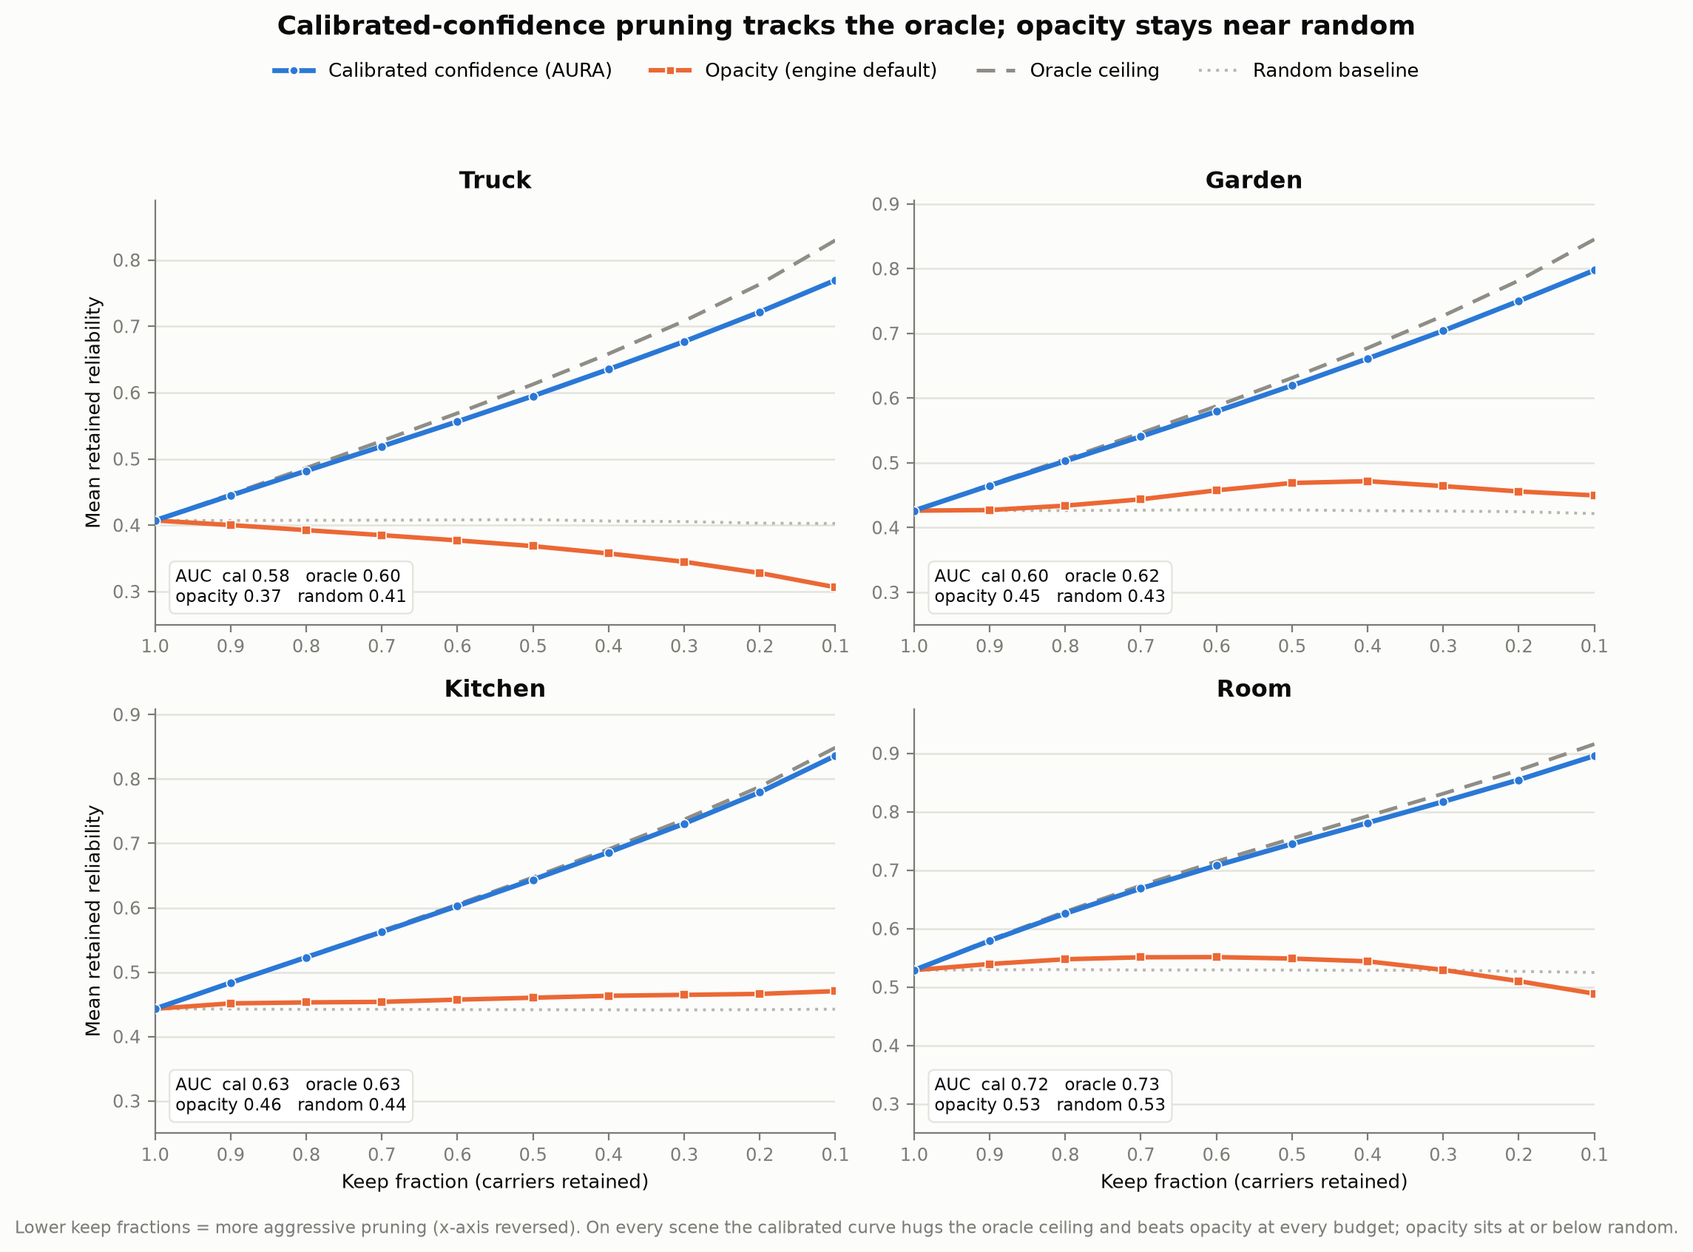
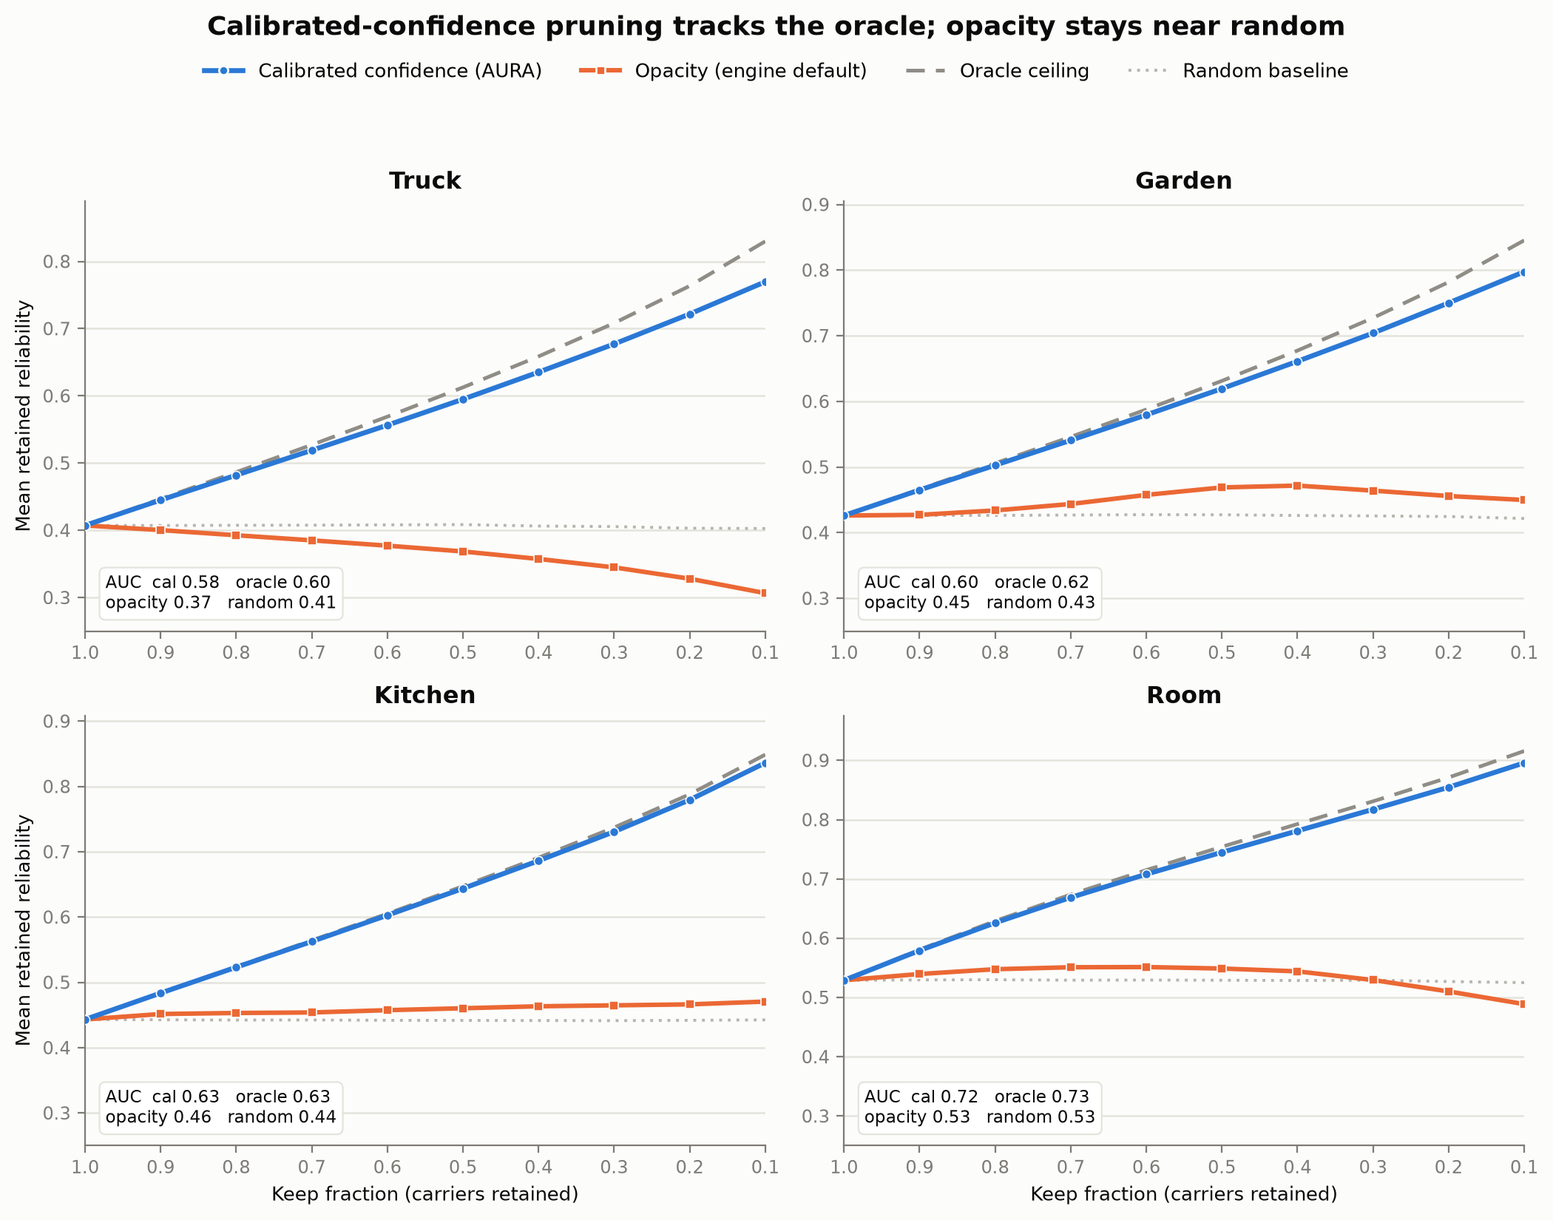
visuals: strip baked-in caption footers (captions now live in README text); enlarge how_it_works fonts, reliability panels, and stack render-loss figure vertically

diff --git a/experiments/make_hardening_figures.py b/experiments/make_hardening_figures.py
@@ -120,7 +120,7 @@ def fig_reliability_diagram():
     splits = {k: load_split(k) for k, _ in SCENES}
     calibs = {k: json.loads((OUT / f"calib_{k}.json").read_text()) for k, _ in SCENES}
 
-    fig, axes = plt.subplots(2, 2, figsize=(10.6, 9.2), dpi=200, sharex=True, sharey=True)
+    fig, axes = plt.subplots(2, 2, figsize=(9.2, 8.9), dpi=190, sharex=True, sharey=True)
 
     for ax, (skey, slabel) in zip(axes.ravel(), SCENES):
         s = splits[skey]
@@ -134,15 +134,16 @@ def fig_reliability_diagram():
         raw_ece = calibs[skey]["calibration"]["ece_raw_heuristic"]
         cal_ece = calibs[skey]["calibration"]["ece_calibrated"]
         ax.set_title(f"{slabel}   —   ECE {raw_ece:.2f} → {cal_ece:.4f}",
-                     fontsize=11.5, color=INK, pad=8, fontweight="bold")
+                     fontsize=14, color=INK, pad=9, fontweight="bold")
         ax.set_xlim(0, 1.02)
         ax.set_ylim(0, 1.02)
         ax.set_aspect("equal")
+        ax.tick_params(labelsize=11)
         _style(ax)
     for ax in axes[1, :]:
-        ax.set_xlabel("Reported confidence", fontsize=10.5, color=INK)
+        ax.set_xlabel("Reported confidence", fontsize=12.5, color=INK)
     for ax in axes[:, 0]:
-        ax.set_ylabel("Empirical held-out reliability", fontsize=10.5, color=INK)
+        ax.set_ylabel("Empirical held-out reliability", fontsize=12.5, color=INK)
 
     handles = [
         Line2D([0], [0], color=RAW, lw=2.2, marker="s", ms=5.0, mec=SURFACE,
@@ -152,18 +153,13 @@ def fig_reliability_diagram():
         Line2D([0], [0], color=MUTED, lw=1.1, ls=(0, (5, 4)),
                label="perfect calibration (y = x)"),
     ]
-    fig.legend(handles=handles, loc="upper center", bbox_to_anchor=(0.5, 0.955),
-               frameon=False, fontsize=10, ncol=3, columnspacing=1.8)
+    fig.legend(handles=handles, loc="upper center", bbox_to_anchor=(0.5, 0.965),
+               frameon=False, fontsize=11.5, ncol=3, columnspacing=1.6)
     fig.suptitle("Isotonic calibration turns the confidence into a trustworthy reliability",
-                 fontsize=13.5, color=INK, fontweight="bold", y=0.985)
-    fig.text(0.5, 0.008,
-             "Reliability diagrams on the held-out eval split (10 equal-count bins per curve). In every scene the shipped "
-             "view-count heuristic reports ~1.0 regardless of true reliability; isotonic (PAVA) calibration places the "
-             "reported value on the diagonal, cutting ECE ~300–900×. Sources: outputs/reliability_<scene>.npz, calib_<scene>.json.",
-             ha="center", fontsize=8.4, color=MUTED)
-    fig.tight_layout(rect=(0, 0.025, 1, 0.925))
+                 fontsize=16, color=INK, fontweight="bold", y=0.995)
+    fig.tight_layout(rect=(0, 0, 1, 0.92))
     p = ASSETS / "reliability_diagram.png"
-    fig.savefig(p, bbox_inches="tight", facecolor=SURFACE, dpi=200)
+    fig.savefig(p, bbox_inches="tight", facecolor=SURFACE, dpi=190)
     plt.close(fig)
     print("wrote", p)
 
@@ -214,11 +210,7 @@ def fig_selection_curves():
                bbox_to_anchor=(0.5, 0.975))
     fig.suptitle("Calibrated-confidence pruning tracks the oracle; opacity stays near random",
                  fontsize=13, color=INK, fontweight="bold", y=1.0)
-    fig.text(0.5, -0.005,
-             "Lower keep fractions = more aggressive pruning (x-axis reversed). On every scene the calibrated curve "
-             "hugs the oracle ceiling and beats opacity at every budget; opacity sits at or below random.",
-             ha="center", fontsize=8.2, color=MUTED)
-    fig.tight_layout(rect=(0, 0.01, 1, 0.93))
+    fig.tight_layout(rect=(0, 0, 1, 0.93))
     p = ASSETS / "selection_curves.png"
     fig.savefig(p, bbox_inches="tight", facecolor=SURFACE, dpi=200)
     plt.close(fig)
@@ -282,11 +274,6 @@ def fig_transfer_heatmap():
 
     fig.suptitle("A single calibrator transfers across scenes (boxed diagonal = in-scene)",
                  fontsize=13, color=INK, fontweight="bold", y=1.02)
-    fig.text(0.5, -0.02,
-             "Off-diagonal = calibrator fit on the source scene, applied to the target. Every transferred ECE stays "
-             "1-2 orders of magnitude below the uncalibrated raw heuristic (~0.54); selection/pruning AUC transfers "
-             "within +/-0.0004 (rank-invariant). Truck is the object-centric outlier.",
-             ha="center", fontsize=8.2, color=MUTED)
     p = ASSETS / "transfer_ece_heatmap.png"
     fig.savefig(p, bbox_inches="tight", facecolor=SURFACE, dpi=200)
     plt.close(fig)
@@ -313,7 +300,7 @@ def fig_proxy_vs_renderloss():
     ora_r = [auc(k, "fullres_renderloss", "oracle_ceiling") for k in keys]
     opa_r = [auc(k, "fullres_renderloss", "opacity") for k in keys]
 
-    fig, (axL, axR) = plt.subplots(1, 2, figsize=(11.4, 5.2), dpi=200)
+    fig, (axL, axR) = plt.subplots(2, 1, figsize=(9.2, 10.4), dpi=190)
     x = np.arange(4)
 
     # Panel 1 — export feature correlation with each label (grouped pair).
@@ -323,18 +310,19 @@ def fig_proxy_vs_renderloss():
     axL.bar(x + bw / 2, corr_rloss, bw, color=RENDER, edgecolor=SURFACE, lw=1.4,
             label="render-loss label (stricter)", zorder=3)
     for xi, v in zip(x - bw / 2, corr_color):
-        axL.text(xi, v + 0.014, f"{v:.2f}", ha="center", va="bottom", fontsize=8.6, color=INK)
+        axL.text(xi, v + 0.014, f"{v:.2f}", ha="center", va="bottom", fontsize=11, color=INK)
     for xi, v in zip(x + bw / 2, corr_rloss):
-        axL.text(xi, v + 0.014, f"{v:.2f}", ha="center", va="bottom", fontsize=8.6, color=INK)
-    axL.set_ylim(0, 1.12)
+        axL.text(xi, v + 0.014, f"{v:.2f}", ha="center", va="bottom", fontsize=11, color=INK)
+    axL.set_ylim(0, 1.22)
     axL.set_yticks([0, 0.2, 0.4, 0.6, 0.8, 1.0])
-    axL.set_ylabel("corr(export feature, held-out reliability)", fontsize=9.8, color=INK)
-    axL.set_title("The export-time feature still predicts\nthe stricter label", fontsize=11,
-                  color=INK, pad=8, fontweight="bold")
-    axL.set_xticks(x); axL.set_xticklabels(disp, fontsize=10)
+    axL.set_ylabel("corr(export feature, held-out reliability)", fontsize=12, color=INK)
+    axL.set_title("The export-time feature still predicts the stricter label", fontsize=14,
+                  color=INK, pad=9, fontweight="bold")
+    axL.set_xticks(x); axL.set_xticklabels(disp, fontsize=12.5)
     axL.tick_params(axis="x", length=0)
-    axL.legend(loc="lower center", bbox_to_anchor=(0.5, -0.24), frameon=False,
-               fontsize=8.8, ncol=2, columnspacing=1.6)
+    axL.tick_params(axis="y", labelsize=11)
+    axL.legend(loc="upper center", frameon=False, fontsize=11.5, ncol=2,
+               columnspacing=1.6)
     _style(axL)
 
     # Panel 2 — selection AUC under the render-loss label: opacity vs calibrated
@@ -347,31 +335,26 @@ def fig_proxy_vs_renderloss():
     axR.bar(x + bw3, ora_r, bw3, color="#dddbd2", edgecolor=ORACLE, lw=1.2,
             label="oracle ceiling", zorder=3)
     for xi, v in zip(x - bw3, opa_r):
-        axR.text(xi, v + 0.008, f"{v:.2f}", ha="center", va="bottom", fontsize=8.2, color=INK)
+        axR.text(xi, v + 0.008, f"{v:.2f}", ha="center", va="bottom", fontsize=10.5, color=INK)
     for xi, v in zip(x, cal_r):
-        axR.text(xi, v + 0.008, f"{v:.2f}", ha="center", va="bottom", fontsize=8.2,
+        axR.text(xi, v + 0.008, f"{v:.2f}", ha="center", va="bottom", fontsize=10.5,
                  color=INK, fontweight="bold")
     for xi, v in zip(x + bw3, ora_r):
-        axR.text(xi, v + 0.008, f"{v:.2f}", ha="center", va="bottom", fontsize=8.2, color=MUTED)
-    axR.set_ylim(0, 0.78)
-    axR.set_ylabel("Selection AUC under the render-loss label", fontsize=9.8, color=INK)
-    axR.set_title("Calibrated stays between opacity and the\noracle; the oracle gap widens to ~6–13%",
-                  fontsize=11, color=INK, pad=8, fontweight="bold")
-    axR.set_xticks(x); axR.set_xticklabels(disp, fontsize=10)
+        axR.text(xi, v + 0.008, f"{v:.2f}", ha="center", va="bottom", fontsize=10.5, color=MUTED)
+    axR.set_ylim(0, 0.85)
+    axR.set_ylabel("Selection AUC under the render-loss label", fontsize=12, color=INK)
+    axR.set_title("Calibrated stays between opacity and the oracle;\nthe oracle gap widens to ~6–13%",
+                  fontsize=14, color=INK, pad=9, fontweight="bold")
+    axR.set_xticks(x); axR.set_xticklabels(disp, fontsize=12.5)
     axR.tick_params(axis="x", length=0)
-    axR.legend(loc="lower center", bbox_to_anchor=(0.5, -0.24), frameon=False,
-               fontsize=8.8, ncol=3, columnspacing=1.2, handlelength=1.3)
+    axR.tick_params(axis="y", labelsize=11)
+    axR.legend(loc="upper center", frameon=False, fontsize=11.5, ncol=3,
+               columnspacing=1.2, handlelength=1.3)
     _style(axR)
 
-    fig.suptitle("P2: the killer property survives a render-grounded label, with honestly weaker margins",
-                 fontsize=12.6, color=INK, fontweight="bold", y=1.0)
-    fig.text(0.5, -0.075,
-             "Full-resolution carriers. The render-loss label penalises occlusion and visibility-weighted colour error the "
-             "proxy misses, so correlation weakens (left) and the calibrated-to-oracle gap widens from ~1–3% (proxy label: "
-             f"AUC {min(cal_c):.2f}–{max(cal_c):.2f} vs oracle {min(ora_c):.2f}–{max(ora_c):.2f}) to ~6–13% (right) — but "
-             "calibrated confidence still beats opacity on every scene. Numbers trace to outputs/p2_summary.json.",
-             ha="center", fontsize=8.2, color=MUTED)
-    fig.tight_layout(rect=(0, 0.05, 1, 0.94))
+    fig.suptitle("P2: the killer property survives a render-grounded label,\nwith honestly weaker margins",
+                 fontsize=15.5, color=INK, fontweight="bold", y=0.995)
+    fig.tight_layout(rect=(0, 0, 1, 0.935), h_pad=2.4)
     p = ASSETS / "proxy_vs_renderloss.png"
     fig.savefig(p, bbox_inches="tight", facecolor=SURFACE, dpi=200)
     plt.close(fig)

diff --git a/docs/how_it_works.tex b/docs/how_it_works.tex
@@ -29,24 +29,24 @@
 
 \begin{document}
 \begin{tikzpicture}[
-  x=1cm, y=1cm, font=\small,
+  x=1cm, y=1cm, font=\normalsize,
   stagebox/.style={rounded corners=7pt, draw=#1, fill=#1!6!surface, line width=1.1pt},
   chip/.style={rounded corners=4pt, draw=#1, fill=surface, line width=0.9pt,
                inner xsep=7pt, inner ysep=6pt, align=center},
   flow/.style={-{Stealth[length=2.6mm]}, line width=1.1pt, color=#1},
-  tag/.style={font=\bfseries\large, color=#1},
-  desc/.style={color=muted, font=\footnotesize, align=left},
-  glyphlab/.style={color=muted, font=\scriptsize, align=center},
+  tag/.style={font=\bfseries\Large, color=#1},
+  desc/.style={color=muted, font=\small, align=left},
+  glyphlab/.style={color=muted, font=\footnotesize, align=center},
   trust/.style={rounded corners=4pt, draw=rawred, dashed, fill=rawred!4!surface,
                 line width=0.8pt, inner xsep=8pt, inner ysep=6pt, align=center,
-                font=\footnotesize}
+                font=\small}
 ]
 
-\fill[surface] (-0.9,2.1) rectangle (26.3,-20.9);
+\fill[surface] (-0.9,2.3) rectangle (30.2,-21.4);
 
 % ============================== title =====================================
-\node[anchor=west, font=\bfseries\LARGE, color=ink] at (0,1.2) {How a capture becomes a trustworthy asset};
-\node[anchor=west, font=\normalsize, color=muted] at (0.02,0.35)
+\node[anchor=west, font=\bfseries\huge, color=ink] at (0,1.2) {How a capture becomes a trustworthy asset};
+\node[anchor=west, font=\large, color=muted] at (0.02,0.35)
   {Same posed photos, four construction targets --- and what each one can promise about its own primitives.};
 
 % ============================== row 1: COLMAP ==============================
@@ -78,9 +78,9 @@
     \node[glyphlab] at (1.9,-1.35) {poses + sparse points};
   \end{scope}
   \draw[flow=colmap] (11.0,0.42) -- (11.9,0.42);
-  \node[chip=colmap, anchor=west] at (12.0,0.42) {output: cameras + seed points\\[-1pt]{\scriptsize (optionally densified by MVS)}};
-  \node[trust, anchor=east] at (25.3,0.42)
-    {per-primitive trust: ---\\[-1pt]{\scriptsize geometry scaffolding, nothing to render}};
+  \node[chip=colmap, anchor=west] at (12.0,0.42) {output: cameras + seed points\\[-1pt]{\footnotesize (optionally densified by MVS)}};
+  \node[trust, anchor=east] at (29.4,0.42)
+    {per-primitive trust: ---\\[-1pt]{\footnotesize geometry scaffolding, nothing to render}};
 \end{scope}
 \end{scope}
 
@@ -100,11 +100,11 @@
     \fill[nerf] (\p,0) circle (\r);
   \node[glyphlab] at (2.4,-1.05) {samples along the ray};
   \draw[flow=nerf] (4.8,0) -- (5.7,0);
-  \node[chip=nerf, anchor=west] (mlp) at (5.8,0) {MLP\\[-1pt]{\scriptsize $(x,\,\mathrm{dir})\rightarrow(\sigma,\,\mathrm{RGB})$}};
+  \node[chip=nerf, anchor=west] (mlp) at (5.8,0) {MLP\\[-1pt]{\footnotesize $(x,\,\mathrm{dir})\rightarrow(\sigma,\,\mathrm{RGB})$}};
   \draw[flow=nerf] (mlp.east) -- ++(0.75,0);
-  \node[chip=nerf, anchor=west] at (9.55,0) {volume render\\[-1pt]{\scriptsize front-to-back integration $\rightarrow$ pixel}};
-  \node[trust, anchor=east] at (25.3,0)
-    {per-primitive trust: none\\[-1pt]{\scriptsize no primitives --- the scene is network weights}};
+  \node[chip=nerf, anchor=west] at (9.55,0) {volume render\\[-1pt]{\footnotesize front-to-back integration $\rightarrow$ pixel}};
+  \node[trust, anchor=east] at (29.4,0)
+    {per-primitive trust: none\\[-1pt]{\footnotesize no primitives --- the scene is network weights}};
 \end{scope}
 \end{scope}
 
@@ -130,11 +130,11 @@
     \node[glyphlab] at (1.4,-0.68) {anisotropic Gaussians};
   \end{scope}
   \draw[flow=gs] (6.1,0.2) -- (7.0,0.2);
-  \node[chip=gs, anchor=west] (opt) at (7.1,0.2) {optimize vs.\ photos\\[-1pt]{\scriptsize densify / prune}};
+  \node[chip=gs, anchor=west] (opt) at (7.1,0.2) {optimize vs.\ photos\\[-1pt]{\footnotesize densify / prune}};
   \draw[flow=gs] (opt.east) -- ++(0.75,0);
-  \node[chip=gs, anchor=west] at (11.35,0.2) {tile rasterizer\\[-1pt]{\scriptsize real-time novel views}};
-  \node[trust, anchor=east] at (25.3,0.2)
-    {per-splat trust: uncalibrated heuristics\\[-1pt]{\scriptsize opacity / view count rank reliability $\approx$ random}};
+  \node[chip=gs, anchor=west] at (11.35,0.2) {tile rasterizer\\[-1pt]{\footnotesize real-time novel views}};
+  \node[trust, anchor=east] at (29.4,0.2)
+    {per-splat trust: uncalibrated heuristics\\[-1pt]{\footnotesize opacity / view count rank reliability $\approx$ random}};
 \end{scope}
 \end{scope}
 
@@ -146,35 +146,33 @@
 
 \begin{scope}[shift={(0.6,-2.5)}]
   \node[chip=aura, anchor=west] (car) at (0,0)
-    {trained typed carriers\\[-1pt]{\scriptsize gsplat Gaussian $\cdot$ DBS Beta}};
+    {trained typed carriers\\[-1pt]{\footnotesize gsplat Gaussian $\cdot$ DBS Beta}};
   \draw[flow=aura] (car.east) -- ++(0.55,0);
   \node[chip=aura, anchor=west] (lab) at ($(car.east)+(0.65,0)$)
-    {held-out reliability label\\[-1pt]{\scriptsize multi-view re-projection agreement}\\[-1pt]{\scriptsize colour + occlusion-aware depth}};
+    {held-out reliability label\\[-1pt]{\footnotesize multi-view re-projection agreement}\\[-1pt]{\footnotesize colour + occlusion-aware depth}};
   \draw[flow=aura] (lab.east) -- ++(0.55,0);
   \node[chip=aura, anchor=west] (cal) at ($(lab.east)+(0.65,0)$)
-    {isotonic calibration\\[-1pt]{\scriptsize of the export-time train-agreement}\\[-1pt]{\scriptsize feature\, ($r=0.91$--$0.98$);\ ECE ${\sim}0.5\rightarrow{\sim}0.001$}};
+    {isotonic calibration\\[-1pt]{\footnotesize of the export-time train-agreement}\\[-1pt]{\footnotesize feature\, ($r=0.91$--$0.98$);\ ECE ${\sim}0.5\rightarrow{\sim}0.001$}};
   \draw[flow=cert] (cal.east) -- ++(0.55,0);
   \node[chip=cert, anchor=west] (crt) at ($(cal.east)+(0.65,0)$)
-    {split-conformal certificate\\[-1pt]{\scriptsize keep conf $\geq\tau$ $\Rightarrow$ lost reliability $\leq\varepsilon$}\\[-1pt]{\scriptsize with confidence $1-\alpha$, distribution-free}};
+    {split-conformal certificate\\[-1pt]{\footnotesize keep conf $\geq\tau$ $\Rightarrow$ lost reliability $\leq\varepsilon$}\\[-1pt]{\footnotesize with confidence $1-\alpha$, distribution-free}};
   \draw[flow=cert] (crt.east) -- ++(0.55,0);
   \node[chip=cert, anchor=west, fill=certbg] (exp) at ($(crt.east)+(0.65,0)$)
-    {confidence-carrying export\\[-1pt]{\scriptsize \texttt{.aura} + \texttt{carriers.npz}}\\[-1pt]{\scriptsize glTF \texttt{KHR\_gaussian\_splatting} $\cdot$ \texttt{\_AURA\_CONFIDENCE}}\\[-1pt]{\scriptsize OpenUSD 26.03 splat schema + vendor channel}};
+    {confidence-carrying export\\[-1pt]{\footnotesize \texttt{.aura} + \texttt{carriers.npz}}\\[-1pt]{\footnotesize glTF \texttt{KHR\_gaussian\_splatting} $\cdot$ \texttt{\_AURA\_CONFIDENCE}}\\[-1pt]{\footnotesize OpenUSD 26.03 splat schema + vendor channel}};
 
-  \node[anchor=west, color=cert, font=\footnotesize\bfseries] at (0,-1.72)
-    {What this buys downstream:};
-  \node[anchor=west, color=ink, font=\footnotesize] at (4.05,-1.72)
-    {certified pruning, LOD and streaming decisions with a stated risk bound --- instead of trusting opacity, which ranks carriers at or below random.};
+  \node[anchor=west, color=ink, font=\small] at (0,-1.72)
+    {{\color{cert}\textbf{What this provides downstream:}} certified pruning, LOD and streaming decisions with a stated risk bound --- instead of trusting opacity, which ranks carriers at or below random.};
 
-  \node[anchor=west, color=muted, font=\scriptsize] at (0,-2.42)
+  \node[anchor=west, color=muted, font=\footnotesize] at (0,-2.42)
     {Validated on 4 real scenes at native resolution; the calibrator transfers across scenes (selection AUC $\pm$0.0004) and the property survives a render-loss label with honestly weaker margins.};
-  \node[anchor=west, color=muted, font=\scriptsize] at (0,-2.92)
+  \node[anchor=west, color=muted, font=\footnotesize] at (0,-2.92)
     {Honest scope: Gaussian + Beta are the trained carriers; Gabor / neural footprints are demo-stage PRISM extensions. Quality numbers are DBS reproductions, not AURA novelties. No SOTA claim.};
 \end{scope}
 \end{scope}
 
 % row separators
 \foreach \y in {-5.15, -9.5, -14.1}
-  \draw[grid, line width=0.7pt] (0,\y) -- (25.6,\y);
+  \draw[grid, line width=0.7pt] (0,\y) -- (29.6,\y);
 
 \end{tikzpicture}
 \end{document}

diff --git a/README.md b/README.md
@@ -22,6 +22,7 @@ calibrated-confidence result is in preparation.
 </p>
 
 ![How a capture becomes a trustworthy asset: COLMAP, NeRF, 3DGS, and the AURA calibration-and-certificate pipeline](docs/how_it_works.png)
+*Same posed photos, four construction targets. COLMAP gives geometry scaffolding, NeRF a neural volume with no primitives to ship, 3DGS fast splats whose only per-splat signals are uncalibrated heuristics — and AURA adds the layer with a guarantee: reliability label → isotonic calibration → split-conformal certificate → confidence-carrying export.*
 
 <p align="center">
   <img src="docs/aura_capability_reel.gif" width="82%" alt="AURA capability reel: reconstruction, depth, confidence, semantics, and query"><br>
@@ -47,6 +48,7 @@ it saturates near 1 regardless of whether a carrier is actually reliable. Isoton
 and dropping expected calibration error (ECE) by ~300–900×:
 
 ![Reliability diagram: raw view-count heuristic vs isotonic-calibrated confidence, four scenes](assets/reliability_diagram.png)
+*Reliability diagrams on the held-out eval split (10 equal-count bins per curve). In every scene the shipped view-count heuristic reports ~1.0 regardless of true reliability; isotonic (PAVA) calibration places the reported value on the diagonal, cutting ECE ~300–900×. Sources: `outputs/reliability_<scene>.npz`, `outputs/calib_<scene>.json`.*
 
 Validated end-to-end on **four real scenes**: Truck (129k carriers) and three
 Mip-NeRF 360 scenes — Garden (outdoor, 120k), Kitchen (indoor, 120k), Room
@@ -67,6 +69,7 @@ scene and beats opacity, the raw heuristic, and random at *every* budget (calibr
 retains 0.77–0.90 reliability vs opacity's 0.31–0.49:
 
 ![Selection curves: retained reliability vs pruning budget for calibrated confidence, opacity, oracle, and random, on four scenes](assets/selection_curves.png)
+*Lower keep fractions = more aggressive pruning (x-axis reversed). On every scene the calibrated curve hugs the oracle ceiling and beats opacity at every budget; opacity sits at or below random.*
 
 **Pruning sweep (Room, held-out view).** As carriers are pruned 100%→10%, the
 reliability of what is *kept* (bottom meters) is the P0 axis: calibrated-confidence
@@ -115,6 +118,7 @@ the uncalibrated ~0.54, and the conformal certificate stays valid when a small l
 conformal split is kept on the target scene:
 
 ![Cross-scene calibrator ECE transfer heatmap, colour and occlusion-aware labels](assets/transfer_ece_heatmap.png)
+*Off-diagonal = calibrator fit on the source scene, applied to the target. Every transferred ECE stays 1–2 orders of magnitude below the uncalibrated raw heuristic (~0.54); selection/pruning AUC transfers within ±0.0004 because the isotonic map is rank-preserving. Truck is the object-centric outlier.*
 
 The honest deployment recipe is **"ship one calibrator + a small per-scene conformal
 set."** The certificate's selective regime is mapped on all four scenes × both
@@ -131,6 +135,7 @@ full-res and a 0.25 control are near-identical, so it is not a low-res artifact 
 and it **survives the render-loss label** with honestly weaker margins:
 
 ![Colour proxy vs render-loss label: the export feature still predicts, and calibrated confidence still beats opacity](assets/proxy_vs_renderloss.png)
+*Full-resolution carriers. The render-loss label penalises occlusion and visibility-weighted colour error the proxy misses, so correlation weakens and the calibrated-to-oracle gap widens from ~1–3% to ~6–13% — but calibrated confidence still beats opacity on every scene. Numbers trace to `outputs/p2_summary.json`.*
 
 Under the render-grounded label the export-time feature predicts reliability at
 r ≈ 0.66–0.81 (vs the proxy's 0.92–0.98), calibration still crushes ECE by 2–3
